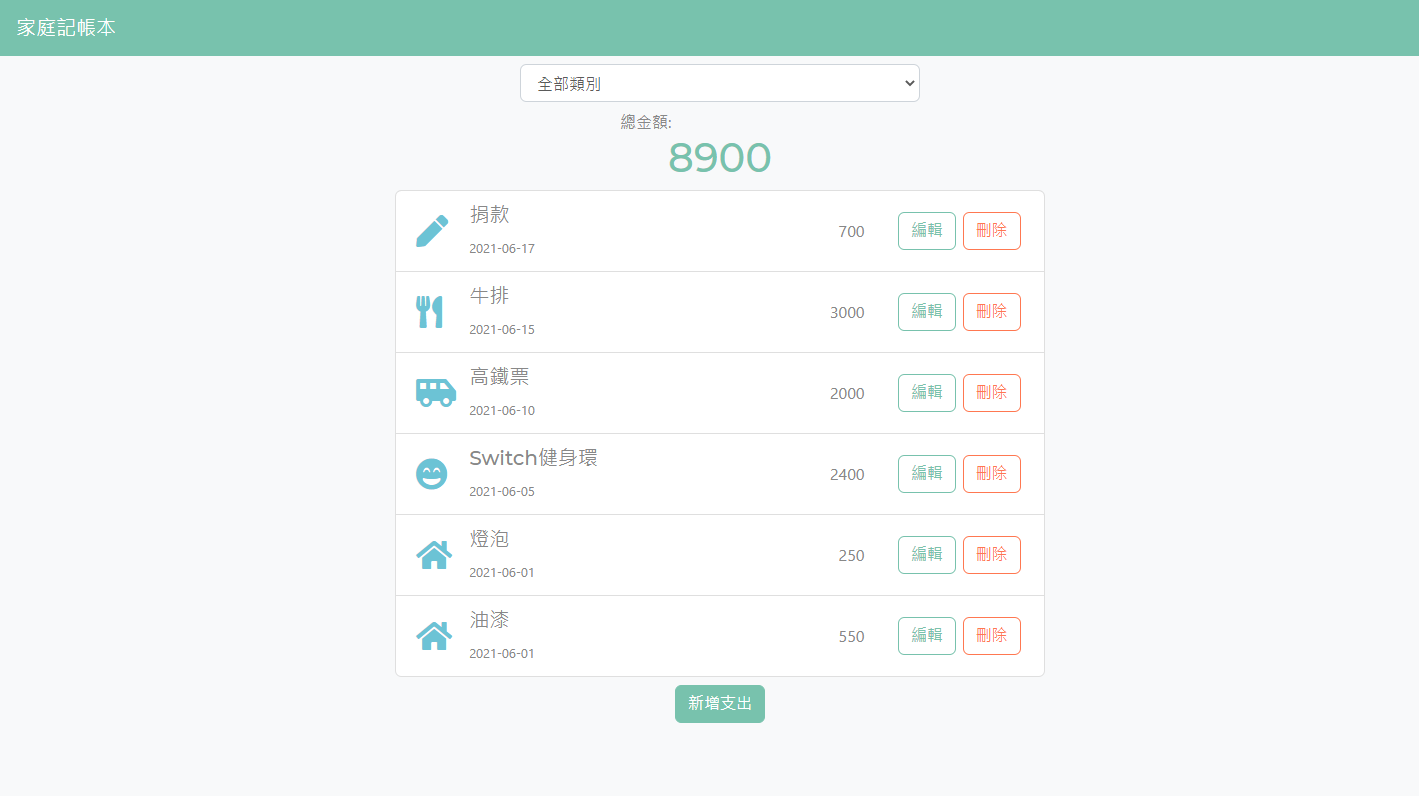
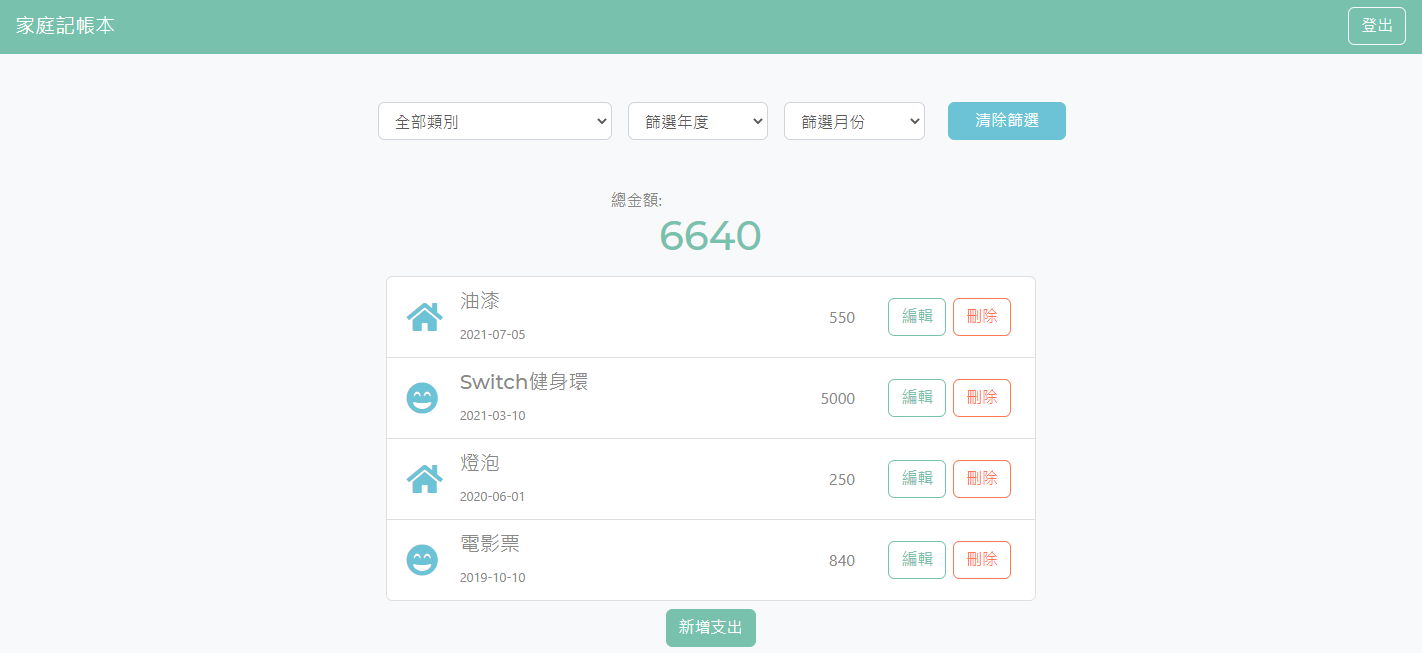
[Docs] Modify Readme

diff --git a/README.md b/README.md
@@ -1,39 +1,44 @@
-# 老爸的私房錢 （又名【廣志の私帳】）
+# 老爸的私房錢
 簡易記帳程式
 
 ## 功能
-使用者 (老爸) 可以：
-
+使用者可以：
+- 使用者可以註冊帳號，註冊的資料包括：名字、email、密碼、確認密碼。其中 email 與密碼是必填欄位，但名字不是
+- 如果使用者已經註冊過、沒填寫必填欄位、或是密碼輸入錯誤，就註冊失敗，並回應給使用者錯誤訊息
+- 使用者可以透過 Facebook Login 直接登入
 - 在首頁一次瀏覽所有支出的清單
 - 在首頁看到所有支出清單的總金額
 - 新增一筆支出
 - 編輯支出的所有屬性 (一次只能編輯一筆)
 - 刪除任何一筆支出 (一次只能刪除一筆)
-- 在首頁可以根據支出「類別」篩選支出；總金額的計算只會包括被篩選出來的支出總和。
+- 在首頁可以根據支出「類別、年度、月份」篩選支出；總金額的計算只會包括被篩選出來的支出總和。
 
 ## 畫面截圖
 ![首頁](https://github.com/konnono/expense-tracker/blob/main/cover_page.png) 
 
 ## 安裝方式
-複製檔案
+1. 複製檔案
 ```
 git clone https://github.com/konnono/expense-tracker.git
 ```
+2. 進入檔案夾
+```
 
-準備mongoDB:
-- 請在mongoDB準備一個名為「expence-tracker」的資料庫
+```
 
-在檔案夾中執行
+3. 在檔案夾中執行
 ```
 npm install
 ```
 
-產生種子檔案
+4. 將.env.example的檔案複製並命名為.env檔案
+
+5. 產生種子檔案
 ```
 npm run seed
 ```
 
-執行程式:
+6. 執行程式:
 ```
 npm run start
 ```
@@ -42,3 +47,9 @@ npm run start
 ```
 npm run dev
 ```
+7. 測試帳號:
+帳號：user1@example.com
+密碼：12345678
+
+帳號：user2@example.com
+密碼：12345678
